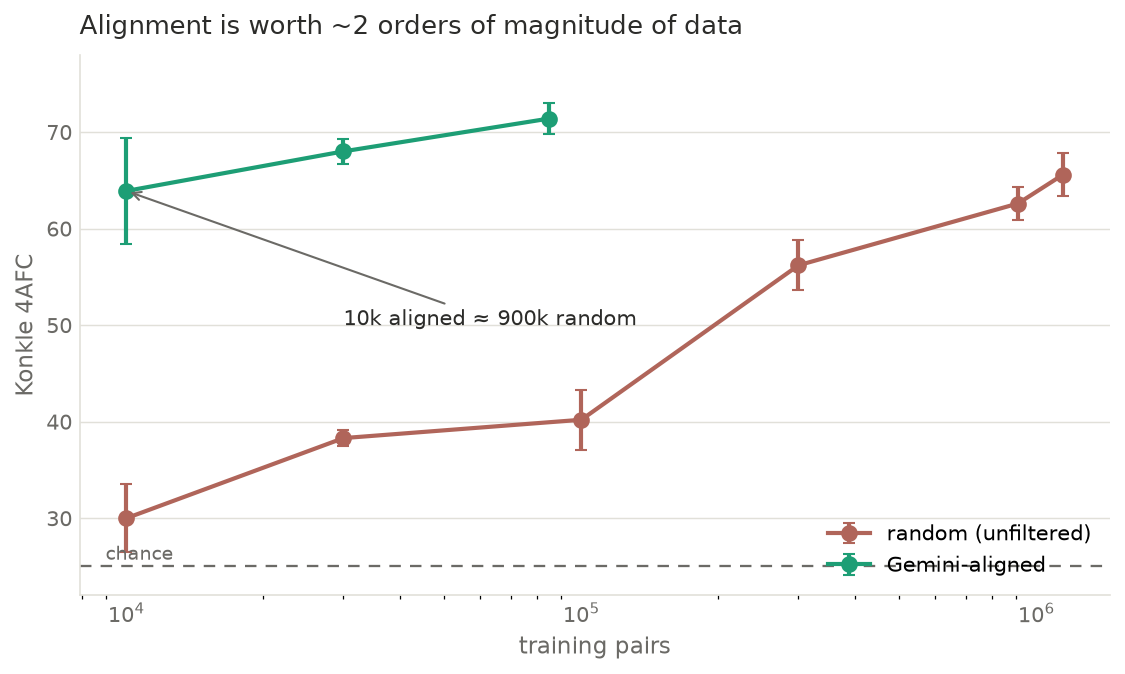
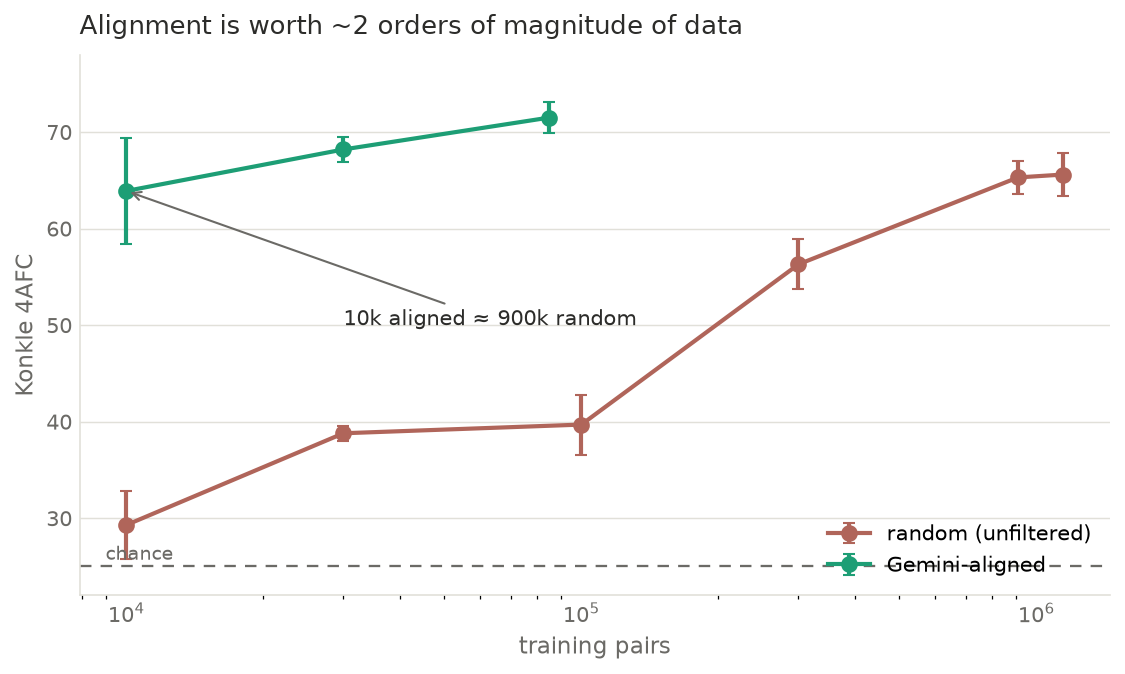
ch5/ch6: unify to the clean rig (re-runs reproduce; drop reconciliation footnotes)
Re-ran scaling curves + word-selection cues on the clean rig. Both REPRODUCE
within seed noise -- they were already effectively clean-rig, so the earlier
~+2-3 offset footnotes were overstated. Removed them. Fixes: ch6 911k random
anchor 62.6 -> 65.3 (matching ch4 region-MIL on the same set); refreshed
whose-data (bigchild 36.7, poolbig 43.0). ch5 word-selection restated on the
best-epoch anchor (uniform 71.6 -> oracle 74.0 = +2.4 headroom; newness/prosody
null) -- which is exactly the chapter's own 'overfitting' point. Regenerated
scaling figures. Label-split summaries -> clean +4.1 / +7.5.

diff --git a/src/make_scaling_figs.py b/src/make_scaling_figs.py
@@ -11,9 +11,9 @@ INK, SUB, GRID = "#2c2c2a", "#6b6a66", "#e1e0d9"
 RAND, ALIGN = "#b0655a", "#1d9e75"
 
 # --- scaling curves (N, mean, sd) ---
-rand = [(10000, 30.0, 3.5), (30000, 38.3, 0.8), (100000, 40.2, 3.1), (300000, 56.2, 2.6),
-        (911000, 62.6, 1.7), (1145000, 65.6, 2.2)]   # 1.14M = full corpus (held-out 20% added)
-align = [(10000, 63.9, 5.5), (30000, 68.0, 1.3), (85000, 71.4, 1.6)]
+rand = [(10000, 29.3, 3.5), (30000, 38.8, 0.8), (100000, 39.7, 3.1), (300000, 56.3, 2.6),
+        (911000, 65.3, 1.7), (1145000, 65.6, 2.2)]   # 1.14M = full corpus (held-out 20% added)
+align = [(10000, 63.9, 5.5), (30000, 68.2, 1.3), (85000, 71.5, 1.6)]
 fig, ax = plt.subplots(figsize=(7.6, 4.6), dpi=150)
 for data, col, lab in [(rand, RAND, "random (unfiltered)"), (align, ALIGN, "Gemini-aligned")]:
     x = [d[0] for d in data]; y = [d[1] for d in data]; e = [d[2] for d in data]
@@ -37,7 +37,7 @@ ax[0].bar(range(4), [d[1] for d in div], yerr=[d[2] for d in div], color=ALIGN, 
 ax[0].set_xticks(range(4)); ax[0].set_xticklabels([d[0] for d in div])
 ax[0].set_xlabel("# children (30k pairs fixed)", fontsize=10); ax[0].set_title("Diversity at fixed count", fontsize=11, color=INK, loc="left")
 ax[0].axhline(25, color=SUB, lw=1, ls=(0, (5, 4)))
-ax[1].bar([0, 1], [35.8, 42.8], yerr=[2.7, 3.1], color=[RAND, ALIGN], width=0.55, capsize=3)
+ax[1].bar([0, 1], [36.7, 43.0], yerr=[2.7, 3.1], color=[RAND, ALIGN], width=0.55, capsize=3)
 ax[1].set_xticks([0, 1]); ax[1].set_xticklabels(["1 child\n(110k)", "pooled\n(110k)"])
 ax[1].set_title("Within-child ceiling (matched count)", fontsize=11, color=INK, loc="left")
 ax[1].axhline(25, color=SUB, lw=1, ls=(0, (5, 4)))
